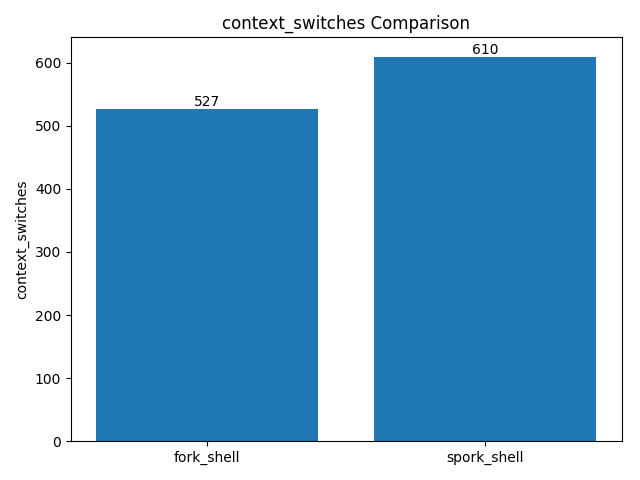
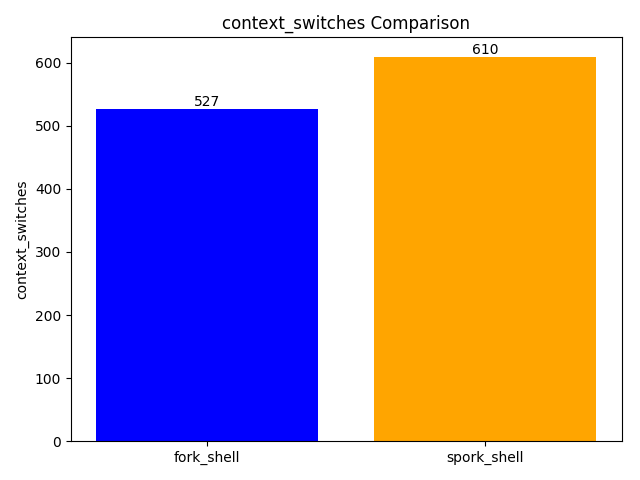
Update visualization

diff --git a/process_visualize_data.py b/process_visualize_data.py
@@ -32,13 +32,13 @@ for metric in plot_metrics:
     fork_val = means[metric]['fork_shell']
     spork_val = means[metric]['spork_shell']
     
-    bars = ax.bar(['fork_shell', 'spork_shell'], [fork_val, spork_val])
+    bars = ax.bar(['fork_shell', 'spork_shell'], [fork_val, spork_val], color=['blue', 'orange'])
     
-    # Add data labels on bars
+    # Add data labels on bars with thousand separators
     for bar in bars:
         height = bar.get_height()
         ax.text(bar.get_x() + bar.get_width()/2., height,
-                f'{height:.0f}',
+                f'{height:,.0f}',
                 ha='center', va='bottom')
     
     ax.set_ylabel(metric)
